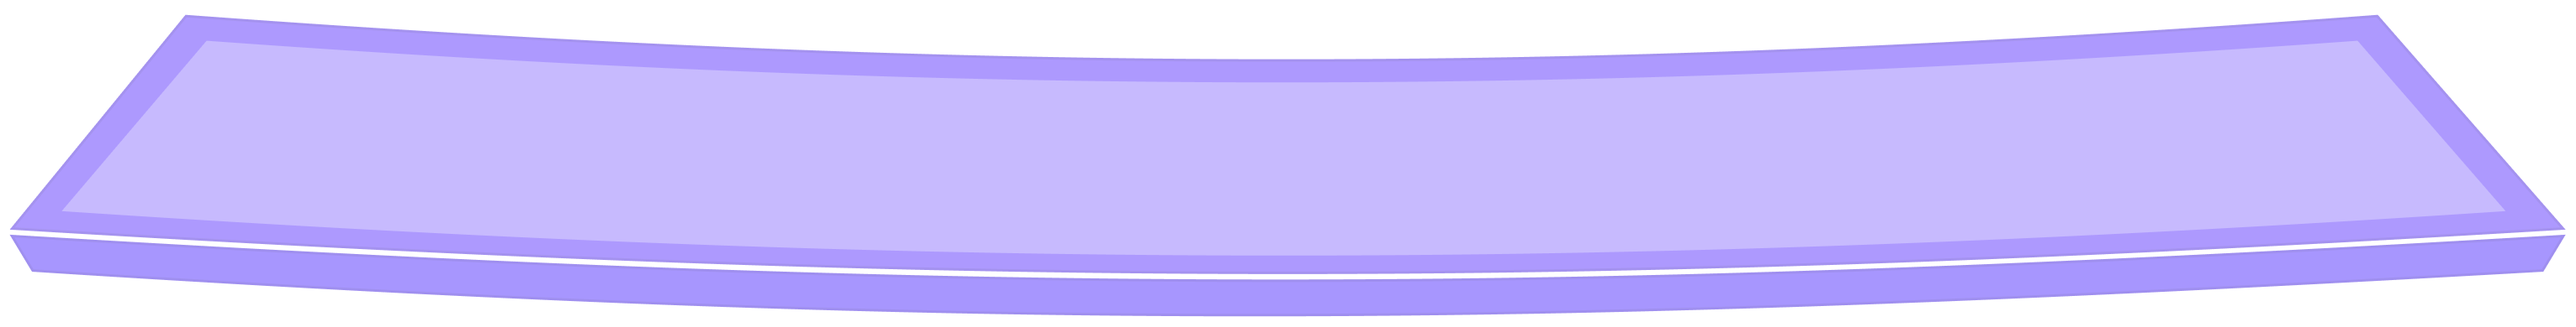
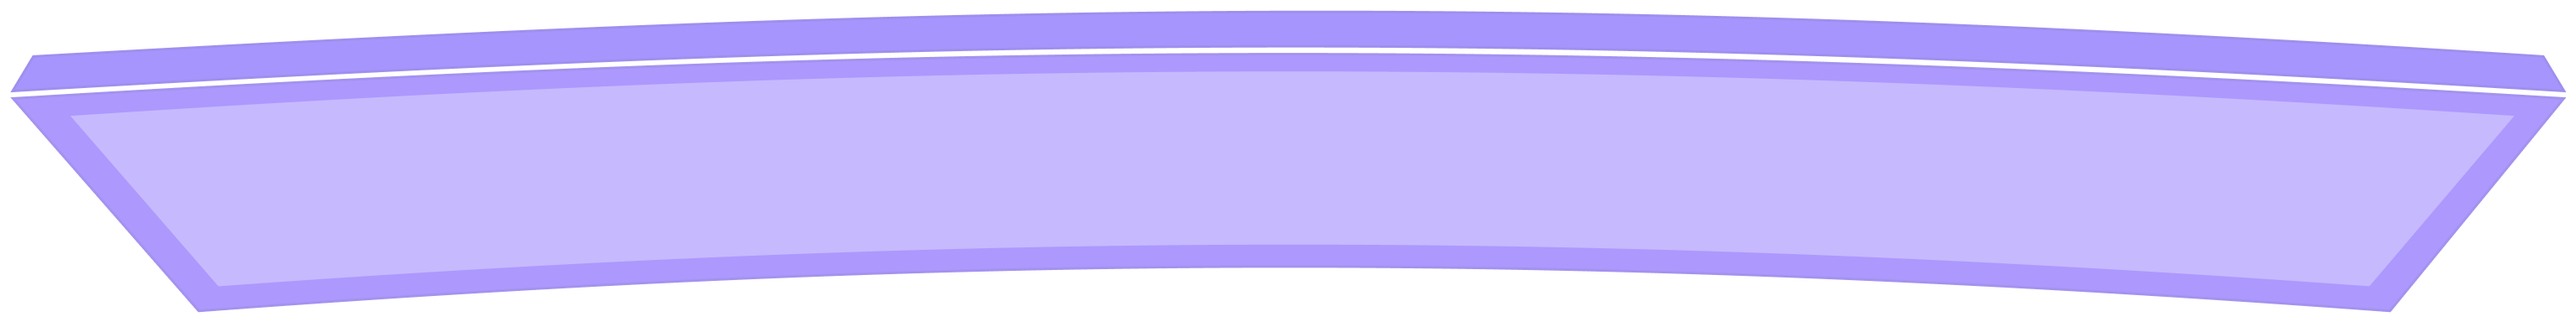
seat router established

diff --git a/frontend/showbook_frontend/src/components/TheatreLayout.jsx b/frontend/showbook_frontend/src/components/TheatreLayout.jsx
@@ -52,6 +52,9 @@ function TheatreLayout({ rows, columns }) {
 
         return 400;
     };
+    const onProceed = ()=>{
+        console.log("SEAT SELECTED: ",selectedSeat)
+    }
 
     const totalPrice = selectedSeat.reduce(
         (total, item) => total + item.price,
@@ -142,6 +145,7 @@ function TheatreLayout({ rows, columns }) {
 
     return (
         <div className="
+            my-10
             w-full
             max-w-5xl
             mx-auto
@@ -171,94 +175,7 @@ function TheatreLayout({ rows, columns }) {
                 </p>
             </div>
 
-            <div className="
-                w-full
-                flex
-                flex-wrap
-                justify-center
-                items-center
-                gap-3
-            ">
 
-                <div className="
-                    flex
-                    items-center
-                    gap-2
-                    px-4
-                    py-2
-                    rounded-xl
-                    bg-slate-800/60
-                    border border-slate-700
-                ">
-                    <span className="
-                        h-3
-                        w-3
-                        rounded-full
-                        bg-slate-400
-                    " />
-
-                    <span className="text-sm text-slate-300">
-                        Normal
-                    </span>
-
-                    <span className="text-sm font-semibold text-white">
-                        ₹200
-                    </span>
-                </div>
-
-                <div className="
-                    flex
-                    items-center
-                    gap-2
-                    px-4
-                    py-2
-                    rounded-xl
-                    bg-blue-500/10
-                    border border-blue-500/20
-                ">
-                    <span className="
-                        h-3
-                        w-3
-                        rounded-full
-                        bg-blue-400
-                    " />
-
-                    <span className="text-sm text-blue-300">
-                        Executive
-                    </span>
-
-                    <span className="text-sm font-semibold text-white">
-                        ₹300
-                    </span>
-                </div>
-
-                <div className="
-                    flex
-                    items-center
-                    gap-2
-                    px-4
-                    py-2
-                    rounded-xl
-                    bg-amber-500/10
-                    border border-amber-500/20
-                ">
-                    <span className="
-                        h-3
-                        w-3
-                        rounded-full
-                        bg-amber-400
-                    " />
-
-                    <span className="text-sm text-amber-300">
-                        Premium
-                    </span>
-
-                    <span className="text-sm font-semibold text-white">
-                        ₹400
-                    </span>
-                </div>
-
-            </div>
 
             <div className="w-full flex flex-col items-center gap-3">
 
@@ -276,6 +193,7 @@ function TheatreLayout({ rows, columns }) {
                     className="
                         w-[180px]
                         sm:w-[240px]
+                        rotate-180
                         h-auto
                         opacity-80
                         drop-shadow-[0_8px_15px_rgba(255,255,255,0.08)]
@@ -535,6 +453,35 @@ function TheatreLayout({ rows, columns }) {
                         {selectedSeat.length !== 1 ? "s" : ""}
                     </p>
 
+                </div>
+                <div className="w-full flex justify-center">
+                    <button
+                    onClick={()=>onProceed}
+                        className="
+            w-full
+            sm:w-auto
+            min-w-[180px]
+            px-8
+            py-3
+            rounded-xl
+            bg-red-600
+            text-white
+            font-semibold
+            text-sm
+            tracking-wide
+            shadow-[0_8px_25px_rgba(220,38,38,0.25)]
+            border border-red-500
+            transition-all
+            duration-200
+            hover:bg-red-500
+            hover:shadow-[0_10px_30px_rgba(220,38,38,0.35)]
+            hover:-translate-y-0.5
+            active:translate-y-0
+            active:scale-[0.98]
+        "
+                    >
+                        Proceed
+                    </button>
                 </div>
 
                 <div className="text-center sm:text-right">

diff --git a/backend/src/controllers/seat.controller.js b/backend/src/controllers/seat.controller.js
@@ -3,28 +3,34 @@ import Seat from "../models/seat.model.js";
 
 export const postSeat = async(req,res) =>{
     try{
-        const {seatNumber,seatType,status} = req.body
-        if(!seatNumber||!seatType||!status){
-            res.status(400).json({
-                "message" :"All fields are required "
-                })
-        }
-        const seat = await Seat.create({
-            seatNumber,
-            seatType,
-            status
-        })
-        return res.status(201).json({
-            "message" :"Succesfully Seat is created ",
-            "seat":{"seatId":seat._id,
-                "seatNumber": seat.seatNumber,
-                "status": seat.status
-            }
-            })
-    }catch(err){
-        return res.status(500).json({
-            "message" : err.message
+        const {seats,theatre} = req.body
+        const seatData = seats.map((seat) => ({
+            theatre,
+            seat
+        }));
+        const createdSeats = await Seat.insertMany(seatData);
+        res.status(201).json({
+            message: "Seats created successfully",
+            seats: createdSeats
+        });
+    }catch (error) {
+        res.status(500).json({
+            message: error.message
+        });
+    }
+}
 
-            })
+export const getSeat = async(req,res) =>{
+    try{
+        const {theaterId} = req.params;
+        const seats = await Seat.find({
+            theatre: theaterId
+        });
+        res.status(200).json(seats);
+
+    }catch (error) {
+        res.status(500).json({
+            message: error.message
+        });
     }
 }

diff --git a/backend/src/models/seat.model.js b/backend/src/models/seat.model.js
@@ -1,20 +1,15 @@
 import mongoose,{Schema} from "mongoose"
 
 const seatSchema = new Schema({
-    seatNumber:{
-        type:Number,
+    seat:[{
+        type:String,
         required:true,
-        default:1
-    },
-    seatType:{
-        type: String,
-        enum: ["Normal","Premium","Vip"],
-        default: "Normal"
-    },
-    status:{
-        type: String,
-        enum:["reserved","available"],
-        default:"available"
+    }],
+    theatre:{
+        type: mongoose.Types.ObjectId,
+        ref:"Theater",
+        required: true
+      
     }
     
 })

diff --git a/backend/src/routes/seat.route.js b/backend/src/routes/seat.route.js
@@ -4,6 +4,7 @@ import authMiddleware from "../middleware/auth.middleware.js"
 import isAdminMiddleware from "../middleware/isAdmin.middleware.js"
 const router = express.Router()
 
-router.post('/post-seat',authMiddleware,isAdminMiddleware,postSeat)
+router.post('/post-seat',authMiddleware,postSeat)
+router.get('/get-seat/:theaterId',authMiddleware,postSeat)
 
 export default router
